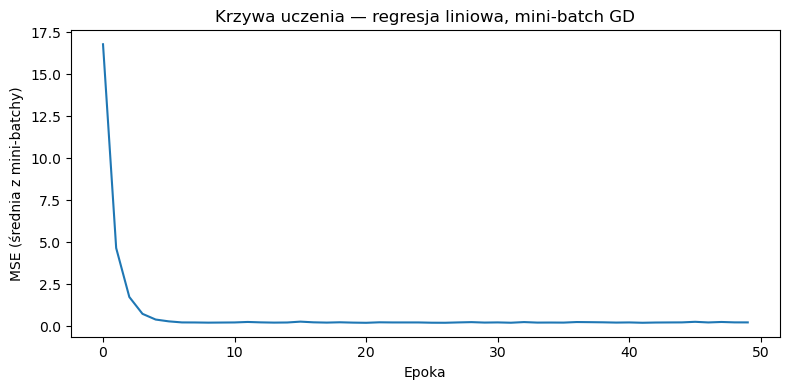
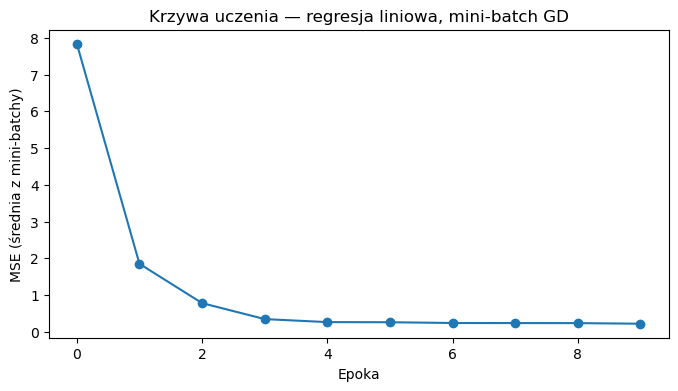
Built site for gh-pages

diff --git a/wyklady/wyklad_4.html b/wyklady/wyklad_4.html
@@ -705,10 +705,10 @@ window.Quarto = {
 <span id="cb8-3"><a href="#cb8-3" aria-hidden="true" tabindex="-1"></a>loader <span class="op">=</span> DataLoader(dataset, batch_size<span class="op">=</span>batch_size, shuffle<span class="op">=</span><span class="va">True</span>)</span></code></pre></div><button title="Copy to Clipboard" class="code-copy-button"><i class="bi"></i></button></div>
 </div>
 <p>Inicjalizujemy wagi losowo i uruchamiamy pętlę treningową:</p>
-<div id="cell-15" class="cell" data-execution_count="4">
+<div id="cell-15" class="cell" data-execution_count="7">
 <div class="code-copy-outer-scaffold"><div class="sourceCode cell-code" id="cb9"><pre class="sourceCode python code-with-copy"><code class="sourceCode python"><span id="cb9-1"><a href="#cb9-1" aria-hidden="true" tabindex="-1"></a>w <span class="op">=</span> torch.randn(d <span class="op">+</span> <span class="dv">1</span>)  <span class="co"># losowa inicjalizacja</span></span>
 <span id="cb9-2"><a href="#cb9-2" aria-hidden="true" tabindex="-1"></a>eta <span class="op">=</span> <span class="fl">0.05</span>               <span class="co"># learning rate</span></span>
-<span id="cb9-3"><a href="#cb9-3" aria-hidden="true" tabindex="-1"></a>num_epochs <span class="op">=</span> <span class="dv">50</span></span>
+<span id="cb9-3"><a href="#cb9-3" aria-hidden="true" tabindex="-1"></a>num_epochs <span class="op">=</span> <span class="dv">10</span></span>
 <span id="cb9-4"><a href="#cb9-4" aria-hidden="true" tabindex="-1"></a></span>
 <span id="cb9-5"><a href="#cb9-5" aria-hidden="true" tabindex="-1"></a>history <span class="op">=</span> []</span>
 <span id="cb9-6"><a href="#cb9-6" aria-hidden="true" tabindex="-1"></a></span>
@@ -737,29 +737,25 @@ window.Quarto = {
 <span id="cb9-29"><a href="#cb9-29" aria-hidden="true" tabindex="-1"></a>    <span class="cf">if</span> (epoch <span class="op">+</span> <span class="dv">1</span>) <span class="op">%</span> <span class="dv">10</span> <span class="op">==</span> <span class="dv">0</span>:</span>
 <span id="cb9-30"><a href="#cb9-30" aria-hidden="true" tabindex="-1"></a>        <span class="bu">print</span>(<span class="ss">f"Epoka </span><span class="sc">{</span>epoch<span class="op">+</span><span class="dv">1</span><span class="sc">:3d}</span><span class="ss">/</span><span class="sc">{</span>num_epochs<span class="sc">}</span><span class="ss">, MSE: </span><span class="sc">{</span>avg_loss<span class="sc">:.4f}</span><span class="ss">"</span>)</span></code></pre></div><button title="Copy to Clipboard" class="code-copy-button"><i class="bi"></i></button></div>
 <div class="cell-output cell-output-stdout">
-<pre><code>Epoka  10/50, MSE: 0.2302
-Epoka  20/50, MSE: 0.2256
-Epoka  30/50, MSE: 0.2283
-Epoka  40/50, MSE: 0.2279
-Epoka  50/50, MSE: 0.2387</code></pre>
+<pre><code>Epoka  10/10, MSE: 0.2204</code></pre>
 </div>
 </div>
 </section>
 <section id="wyniki" class="level3">
 <h3 class="anchored" data-anchor-id="wyniki">Wyniki</h3>
 <p>Porównajmy wyuczone wagi z prawdziwymi:</p>
-<div id="cell-17" class="cell" data-execution_count="5">
+<div id="cell-17" class="cell" data-execution_count="8">
 <div class="code-copy-outer-scaffold"><div class="sourceCode cell-code" id="cb11"><pre class="sourceCode python code-with-copy"><code class="sourceCode python"><span id="cb11-1"><a href="#cb11-1" aria-hidden="true" tabindex="-1"></a><span class="bu">print</span>(<span class="ss">f"Prawdziwe wagi:  </span><span class="sc">{</span>w_true<span class="sc">.</span>tolist()<span class="sc">}</span><span class="ss">"</span>)</span>
 <span id="cb11-2"><a href="#cb11-2" aria-hidden="true" tabindex="-1"></a><span class="bu">print</span>(<span class="ss">f"Wyuczone wagi:   </span><span class="sc">{</span>[<span class="bu">round</span>(wi, <span class="dv">4</span>) <span class="cf">for</span> wi <span class="kw">in</span> w.tolist()]<span class="sc">}</span><span class="ss">"</span>)</span></code></pre></div><button title="Copy to Clipboard" class="code-copy-button"><i class="bi"></i></button></div>
 <div class="cell-output cell-output-stdout">
 <pre><code>Prawdziwe wagi:  [3.0, 2.0, -1.0]
-Wyuczone wagi:   [2.9541, 2.0085, -0.9647]</code></pre>
+Wyuczone wagi:   [2.9771, 1.9661, -0.953]</code></pre>
 </div>
 </div>
 <p>Wizualizacja spadku funkcji straty:</p>
-<div id="cell-19" class="cell">
+<div id="cell-19" class="cell" data-execution_count="10">
 <div class="code-copy-outer-scaffold"><div class="sourceCode cell-code" id="cb13"><pre class="sourceCode python code-with-copy"><code class="sourceCode python"><span id="cb13-1"><a href="#cb13-1" aria-hidden="true" tabindex="-1"></a>fig, ax <span class="op">=</span> plt.subplots(figsize<span class="op">=</span>(<span class="dv">8</span>, <span class="dv">4</span>))</span>
-<span id="cb13-2"><a href="#cb13-2" aria-hidden="true" tabindex="-1"></a>ax.plot(history)</span>
+<span id="cb13-2"><a href="#cb13-2" aria-hidden="true" tabindex="-1"></a>ax.plot(history, marker<span class="op">=</span><span class="st">"o"</span>)</span>
 <span id="cb13-3"><a href="#cb13-3" aria-hidden="true" tabindex="-1"></a>ax.set_xlabel(<span class="st">"Epoka"</span>)</span>
 <span id="cb13-4"><a href="#cb13-4" aria-hidden="true" tabindex="-1"></a>ax.set_ylabel(<span class="st">"MSE (średnia z mini-batchy)"</span>)</span>
 <span id="cb13-5"><a href="#cb13-5" aria-hidden="true" tabindex="-1"></a>ax.set_title(<span class="st">"Krzywa uczenia — regresja liniowa, mini-batch GD"</span>)<span class="op">;</span></span></code></pre></div><button title="Copy to Clipboard" class="code-copy-button"><i class="bi"></i></button></div>
